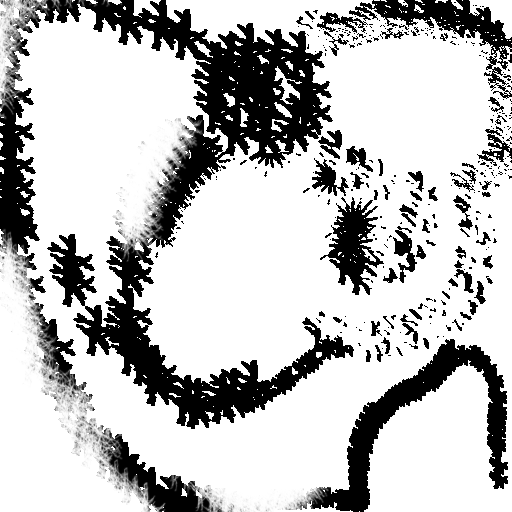
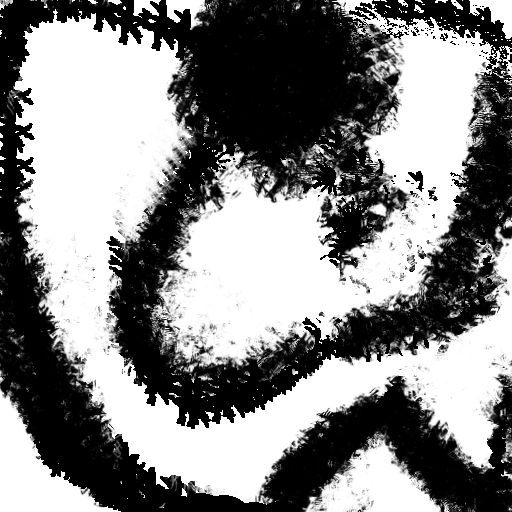
Finished Tutorial Map

diff --git a/teamabomhim/src/SMWorld.py b/teamabomhim/src/SMWorld.py
@@ -4,6 +4,7 @@ from panda3d.bullet import BulletWorld
 from panda3d.bullet import BulletRigidBodyNode, BulletDebugNode, BulletCharacterControllerNode, BulletGhostNode
 from panda3d.bullet import BulletBoxShape, BulletCapsuleShape, BulletCylinderShape, BulletPlaneShape, BulletHeightfieldShape
 from panda3d.bullet import ZUp
+from random import randint
 
 from direct.showbase.DirectObject import DirectObject
 from direct.showbase.Transitions import Transitions
@@ -44,7 +45,7 @@ class SMWorld(DirectObject):
 		#close file
 		ctrlFl.close()
 		# Metadata variables
-		self.playerStart = Point3(0,0,0)
+		self.playerStart = Point3(-75,7,23)
 		self.snowflakeCount = 0
 		
 		# Create new instances of our various objects
@@ -81,8 +82,8 @@ class SMWorld(DirectObject):
 		self.cameraControl = False
 		
 		# Collectables
-		self.collectable1 = SMCollect(self.worldBullet, self.worldObj, -80, -80, -5)
-		self.collectNP1 = self.collectable1.getNodePath()
+		#self.collectable1 = None
+		#self.collectNP1 = None
 
 		# GUI
 		self.GUI = SMGUI()
@@ -140,17 +141,17 @@ class SMWorld(DirectObject):
 		
 		# Added some props to the world.
 		# TODO: Use map metadata to load these instead of hardcoding them.
-		self.playerNP.setH(90)
-		cave = loader.loadModel("../res/models/cave_tunnel.egg")
-		cave.setScale(5)
-		cave.setR(180)
-		cave.setPos(45, 0, -13)
-		cave.reparentTo(render)
+		#self.playerNP.setH(90)
+		#cave = loader.loadModel("../res/models/cave_tunnel.egg")
+		#cave.setScale(5)
+		#cave.setR(180)
+		#cave.setPos(45, 0, -13)
+		#cave.reparentTo(render)
 		
-		planeFront = loader.loadModel("../res/models/plane_front.egg")
-		planeFront.setScale(5)
-		planeFront.setPos(-70, -28, -13)
-		planeFront.reparentTo(render)
+		#planeFront = loader.loadModel("../res/models/plane_front.egg")
+		#planeFront.setScale(5)
+		#planeFront.setPos(-70, -28, -13)
+		#planeFront.reparentTo(render)
 		
 		# Skybox formed
 		skybox = loader.loadModel("../res/models/skybox.egg")
@@ -282,12 +283,22 @@ class SMWorld(DirectObject):
 		# Here begins the scenery mapping
 		treeModel = loader.loadModel("../res/models/tree_1.egg")
 		rockModel = loader.loadModel("../res/models/rock_1.egg")
+		rock2Model = loader.loadModel("../res/models/rock_2.egg")
+		rock3Model = loader.loadModel("../res/models/rock_3.egg")
+		caveModel = loader.loadModel("../res/models/cave_tunnel.egg")
+		planeFrontModel = loader.loadModel("../res/models/plane_front.egg")
+		planeWingModel = loader.loadModel("../res/models/plane_wing.egg")
 		texpk = loader.loadTexture(scmPath).peek()
 		
 		# GameObject nodepath for flattening
 		objNP = render.attachNewNode("gameObjects")
 		treeNP = objNP.attachNewNode("goTrees")
 		rockNP = objNP.attachNewNode("goRocks")
+		rock2NP = objNP.attachNewNode("goRocks2")
+		rock3NP = objNP.attachNewNode("goRocks3")
+		caveNP = objNP.attachNewNode("goCave")
+		planeFrontNP = objNP.attachNewNode("goPlaneFront")
+		planeWingNP = objNP.attachNewNode("goPlaneWing")
 		
 		for i in range(0, texpk.getXSize()):
 			for j in range(0, texpk.getYSize()):
@@ -297,12 +308,56 @@ class SMWorld(DirectObject):
 					newTree = treeNP.attachNewNode("treeNode")
 					treeModel.instanceTo(newTree)
 					newTree.setPos(i - texpk.getXSize() / 2, j - texpk.getYSize() / 2, self.hmTerrain.get_elevation(i, j) * self.hmHeight - self.hmHeight / 2)
-					# newTree.setScale can add some nice randomized scaling here.
+					newTree.setScale(randint(0,4))
 					
 				if(int(color.getX() * 255.0) == 128):
 					newRock = render.attachNewNode("newRock")
 					newRock.setPos(i - texpk.getXSize() / 2, j - texpk.getYSize() / 2, self.hmTerrain.get_elevation(i, j) * self.hmHeight - self.hmHeight / 2)
 					rockModel.instanceTo(newRock)
+					
+				if(int(color.getX() * 255.0) == 77):
+					newRock2 = render.attachNewNode("newRock2")
+					newRock2.setPos(i - texpk.getXSize() / 2, j - texpk.getYSize() / 2, self.hmTerrain.get_elevation(i, j) * self.hmHeight - self.hmHeight / 2)
+					rock2Model.instanceTo(newRock2)
+					
+				if(int(color.getX() * 255.0) == 102):
+					newRock3 = render.attachNewNode("newRock3")
+					newRock3.setPos(i - texpk.getXSize() / 2, j - texpk.getYSize() / 2, self.hmTerrain.get_elevation(i, j) * self.hmHeight - self.hmHeight / 2)
+					rock3Model.instanceTo(newRock3)
+					
+				if(int(color.getX() * 255.0) == 64):
+					newCave = render.attachNewNode("newCave")
+					newCave.setPos(i - texpk.getXSize() / 2, j - texpk.getYSize() / 2, self.hmTerrain.get_elevation(i, j) * self.hmHeight - self.hmHeight / 2)
+					newCave.setScale(5)
+					newCave.setP(180)
+					caveModel.instanceTo(newCave)
+				
+				if(int(color.getX() * 255.0) == 191):
+					newPlaneFront = render.attachNewNode("newPlaneFront")
+					newPlaneFront.setPos(i - texpk.getXSize() / 2, j - texpk.getYSize() / 2, self.hmTerrain.get_elevation(i, j) * self.hmHeight - self.hmHeight / 2)
+					newPlaneFront.setScale(6)
+					planeFrontModel.instanceTo(newPlaneFront)
+					
+				if(int(color.getX() * 255.0) == 179):
+					newPlaneWing = render.attachNewNode("newPlaneWing")
+					newPlaneWing.setPos(i - texpk.getXSize() / 2, j - texpk.getYSize() / 2, self.hmTerrain.get_elevation(i, j) * self.hmHeight - self.hmHeight / 2)
+					newPlaneWing.setScale(6)
+					newPlaneWing.setH(250)
+					newPlaneWing.setR(180)
+					newPlaneWing.setP(135)
+					planeWingModel.instanceTo(newPlaneWing)
+				
+				if(int(color.getX() * 255.0) == 230):
+					self.collectable1 = SMCollect(self.worldBullet, self.worldObj, i - texpk.getXSize() / 2, j - texpk.getYSize() / 2, self.hmTerrain.get_elevation(i, j) * self.hmHeight - self.hmHeight / 2)
+					self.collectNP1 = self.collectable1.getNodePath()
+					
+				if(int(color.getX() * 255.0) == 217):
+					self.collectable2 = SMCollect(self.worldBullet, self.worldObj, i - texpk.getXSize() / 2, j - texpk.getYSize() / 2, self.hmTerrain.get_elevation(i, j) * self.hmHeight - self.hmHeight / 2)
+					self.collectNP2 = self.collectable2.getNodePath()
+					
+				if(int(color.getX() * 255.0) == 204):
+					self.collectable3 = SMCollect(self.worldBullet, self.worldObj, i - texpk.getXSize() / 2, j - texpk.getYSize() / 2, self.hmTerrain.get_elevation(i, j) * self.hmHeight - self.hmHeight / 2)
+					self.collectNP3 = self.collectable3.getNodePath()
 					
 		# render.flattenStrong()
 		self.hmTerrainNP.reparentTo(render)
@@ -522,7 +577,14 @@ class SMWorld(DirectObject):
 		if(self.colObj.didCollide(self.playerNP.node(), self.collectNP1) and self.collectable1.exists()):
 			self.collectable1.destroy()
 			self.snowflakeCounter.increment()
-
+			
+		if(self.colObj.didCollide(self.playerNP.node(), self.collectNP2) and self.collectable2.exists()):
+			self.collectable2.destroy()
+			self.snowflakeCounter.increment()
+		
+		if(self.colObj.didCollide(self.playerNP.node(), self.collectNP3) and self.collectable3.exists()):
+			self.collectable3.destroy()
+			self.snowflakeCounter.increment()
 		
 	#------------------------------------------------------------------------------------------------------------------------------------------------------------
 	# Update the debug text.

diff --git a/teamabomhim/src/Game.py b/teamabomhim/src/Game.py
@@ -39,7 +39,7 @@ class Game(DirectObject):
         def newGame(self):
                 self.hideMenu()
                 # Loading screens will be added here in place of direct map invocation.
-                self.world = SMWorld(self.gameState, "map01", -30, self.textObj, self.audioMgr)
+                self.world = SMWorld(self.gameState, "maptut", -30, self.textObj, self.audioMgr)
 
         def continueGame(self):
                 # When saving game state is implemented it will be added here.

diff --git a/teamabomhim/src/SMPlayer.py b/teamabomhim/src/SMPlayer.py
@@ -101,7 +101,8 @@ class SMPlayer():
 		
 		playerNP = self.worldNP.attachNewNode(playerNode)
 		playerNP.setPos(x, y, z)
-		playerNP.setH(0)
+		#playerNP.setP(90)
+		playerNP.setH(270)
 		self.yetiModel.reparentTo(playerNP)
 		self.bulletWorld.attachRigidBody(playerNP.node())
 		return playerNP

diff --git a/teamabomhim/src/SMCollect.py b/teamabomhim/src/SMCollect.py
@@ -35,6 +35,7 @@ class SMCollect():
 		self.world.attachGhost(ghostNode)
 		visualCN = loader.loadModel("../res/models/snowflake.egg")
 		visualCN.reparentTo(collectNode)
+		visualCN.setScale(2)
 		return collectNode
 		
 	def destroy(self):
